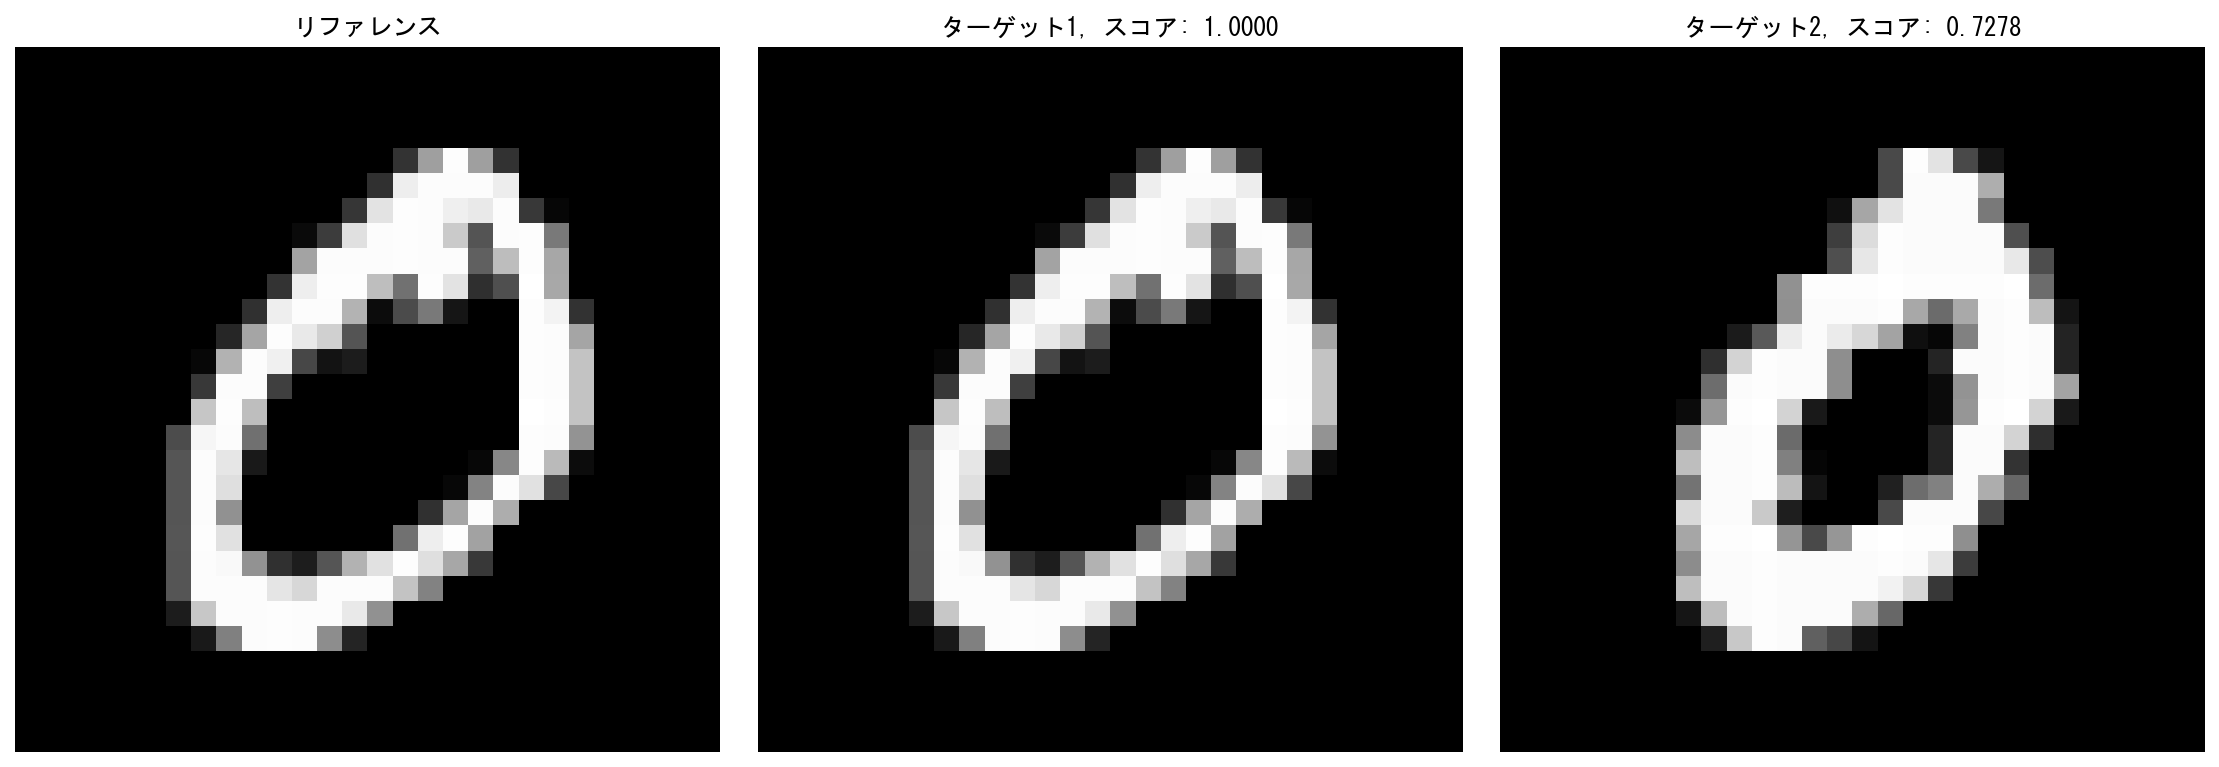
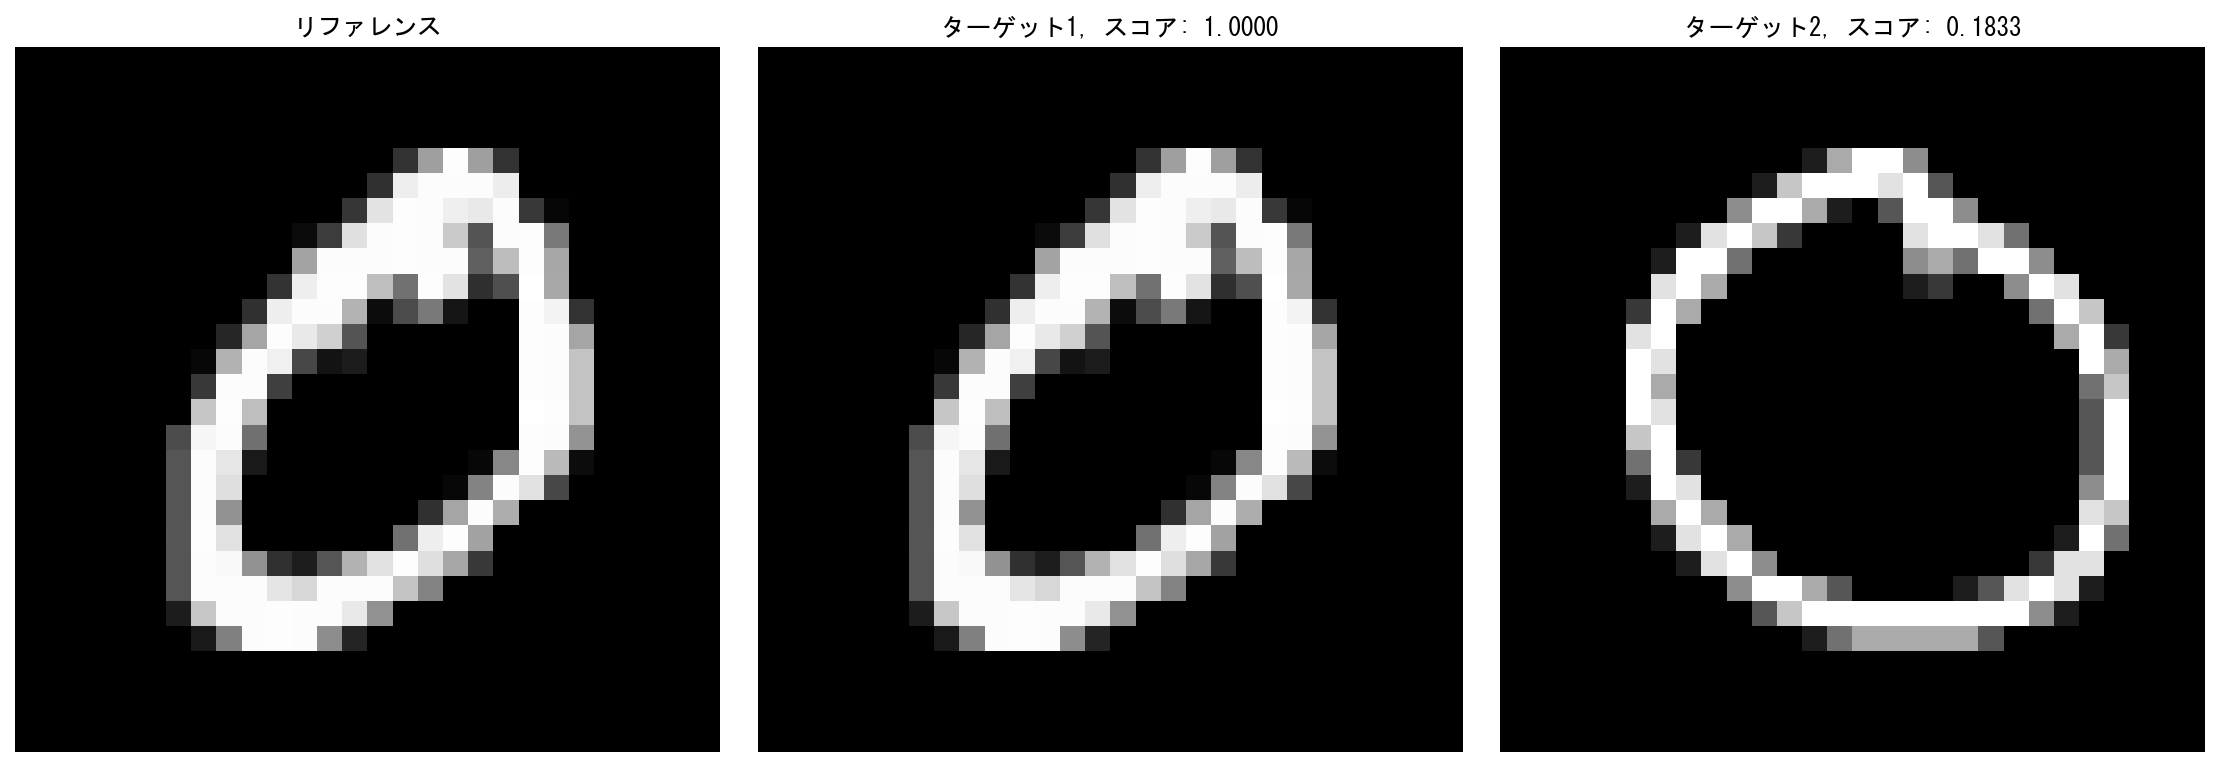
feat: テンプレートマッチングで回転・拡大縮小した画像との比較機能を追加

Changed region(s): [[0.7152, 0.1799, 0.9639, 0.8696], [0.8707, 0.03, 0.9018, 0.06]]

diff --git a/main.py b/main.py
@@ -51,7 +51,13 @@ def save_template_images(templates):
     print("Template images saved.")
     return True
 
-# テンプレートマッチングによる数字の判別
+def rotate_image(image, angle):
+    (h, w) = image.shape[:2]
+    center = (w // 2, h // 2)
+    M = cv2.getRotationMatrix2D(center, angle, 1.0)
+    rotated = cv2.warpAffine(image, M, (w, h), flags=cv2.INTER_CUBIC, borderMode=cv2.BORDER_REPLICATE)
+    return rotated
+
 def template_matching(test_image, template_image):
     test_img = (test_image * 255).astype(np.uint8)
     template = (template_image * 255).astype(np.uint8)
@@ -102,23 +108,44 @@ def save_combined_results(test_images, target1, target2, score1, score2, path):
     return save_path
 
 def main1(template_images):
-    print("Executing template matching...")
+    '''
+    0と異なる種類の0のテンプレート画像を比較する
+    '''
+    print("Executing template matching main1...")
     test_image = template_images[0][0]
     target1 = test_image
-    target2 = template_images[0][3]
+    target2 = template_images[0][7]
     
     score1 = template_matching(test_image, target1)
     score2 = template_matching(test_image, target2)
     print(f'Score1: {score1:.4f}')
     print(f'Score2: {score2:.4f}')
     
-    print("Saving result image...")
     save_path = save_combined_results(test_image, target1, target2, score1, score2, 'template_matching1')
     print(f'Result image saved to: {save_path}')
-    print("Processing completed.")
-
+    
 def main2(template_images):
-    print("Executing template matching...")
+    '''
+    0と異なる種類の0(似ている)のテンプレート画像を比較する
+    '''
+    print("Executing template matching main2...")
+    test_image = template_images[0][0]
+    target1 = test_image
+    target2 = template_images[0][2]
+    
+    score1 = template_matching(test_image, target1)
+    score2 = template_matching(test_image, target2)
+    print(f'Score1: {score1:.4f}')
+    print(f'Score2: {score2:.4f}')
+    
+    save_path = save_combined_results(test_image, target1, target2, score1, score2, 'template_matching2')
+    print(f'Result image saved to: {save_path}')
+
+def main3(template_images):
+    '''
+    0と異なる数字のテンプレート画像を比較する
+    '''
+    print("Executing template matching main3...")
     test_image = template_images[0][0]
     target1 = test_image
     target2 = template_images[1][0]
@@ -128,10 +155,62 @@ def main2(template_images):
     print(f'Score1: {score1:.4f}')
     print(f'Score2: {score2:.4f}')
     
-    print("Saving result image...")
-    save_path = save_combined_results(test_image, target1, target2, score1, score2, 'template_matching2')
+    save_path = save_combined_results(test_image, target1, target2, score1, score2, 'template_matching3')
     print(f'Result image saved to: {save_path}')
-    print("Processing completed.")
+    
+def main4(template_images):
+    '''
+    回転した画像との比較
+    '''
+    print("Executing template matching main4...")
+    degrees = 30
+    test_image = template_images[0][0]
+    target1 = test_image
+    target2 = rotate_image(test_image, degrees)
+    
+    score1 = template_matching(test_image, target1)
+    score2 = template_matching(test_image, target2)
+    print(f'Score1: {score1:.4f}')
+    print(f'Score2: {score2:.4f}')
+    
+    save_path = save_combined_results(test_image, target1, target2, score1, score2, 'template_matching4')
+    print(f'Result image saved to: {save_path}')
+    
+def main5(template_images):
+    '''
+    縮小した画像との比較
+    '''
+    print("Executing template matching main5...")
+    scale = 0.5
+    test_image = template_images[0][0]
+    target1 = test_image
+    target2 = cv2.resize(test_image, (0, 0), fx=scale, fy=scale)
+    
+    score1 = template_matching(test_image, target1)
+    score2 = template_matching(test_image, target2)
+    print(f'Score1: {score1:.4f}')
+    print(f'Score2: {score2:.4f}')
+    
+    save_path = save_combined_results(test_image, target1, target2, score1, score2, 'template_matching5')
+    print(f'Result image saved to: {save_path}')
+    
+def main6(template_images):
+    '''
+    拡大した画像との比較
+    '''
+    print("Executing template matching main6...")
+    scale = 2.0
+    test_image = template_images[0][0]
+    target1 = test_image
+    target2 = cv2.resize(test_image, (0, 0), fx=scale, fy=scale)
+    
+    score1 = template_matching(test_image, target1)
+    score2 = template_matching(test_image, target2)
+    print(f'Score1: {score1:.4f}')
+    print(f'Score2: {score2:.4f}')
+    
+    save_path = save_combined_results(test_image, target1, target2, score1, score2, 'template_matching6')
+    print(f'Result image saved to: {save_path}')
 
 if __name__ == "__main__":
     os.makedirs('results', exist_ok=True)
@@ -141,3 +220,8 @@ if __name__ == "__main__":
     save_template_images(template_images)
     main1(template_images)
     main2(template_images)
+    main3(template_images)
+    main4(template_images)
+    main5(template_images)
+    main6(template_images)
+    print("Processing completed.")

diff --git a/score_exp.md b/score_exp.md
@@ -1,0 +1,35 @@
+### テンプレートマッチングにおけるスコア（最大値）について
+
+#### はじめに
+
+`cv2.matchTemplate(test_img, template, cv2.TM_CCOEFF_NORMED)`で使用している`cv2.TM_CCOEFF_NORMED`は正規化された相関係数（Normalized Cross-Correlation）を計算する方法です。
+
+#### スコアの定義と意味
+
+このスコアの定義と意味は以下の通りです：
+
+スコアの範囲: -1.0から1.0の範囲の値を取ります。
+
+- 1.0: 完全一致（テンプレートと画像の一部が完全に同じ）
+- 0.0: 相関なし（テンプレートと画像の間に関連性がない）
+- -1.0: 完全に逆の相関（テンプレートの明るい部分が画像では暗く、その逆も同様）
+
+計算方法: 正規化された相関係数は以下の数式で計算されます：
+
+$$
+R(x,y) = \frac{\sum_{x',y'} (T(x',y') - \mu_T) * (I(x+x',y+y') - \mu_I)}{\sqrt{\sum_{x',y'} (T(x',y') - \mu_T)^2 * \sum_{x',y'} (I(x+x',y+y') - \mu_I)^2}}
+$$
+
+ここで：
+- $T$ はテンプレート画像のピクセル値
+- $I$ は入力画像のピクセル値
+- $\mu_T$ はテンプレート画像の平均値
+- $\mu_I$ は入力画像の対応する領域の平均値
+
+#### 最大値の意味
+
+最大値の意味: `cv2.minMaxLoc(result)`で得られる最大値$\max_{x,y} R(x,y)$は、入力画像内でテンプレートが最もよく一致する位置での相関係数の値です。この値が高いほど、テンプレートと入力画像の一致度が高いことを意味します。つまり、このスコアは画像間の類似度を表す指標であり、1.0に近いほど画像が似ていることを示します。コード内では、このスコアを使って異なる画像間の類似度を比較しています。
+
+#### まとめ
+
+このスコアは画像間の類似度（どれだけ似ているか）を表す指標であり、1.0に近いほど画像が似ていることを示します。コード内では、このスコアを使って異なる画像間の類似度を比較しています。
